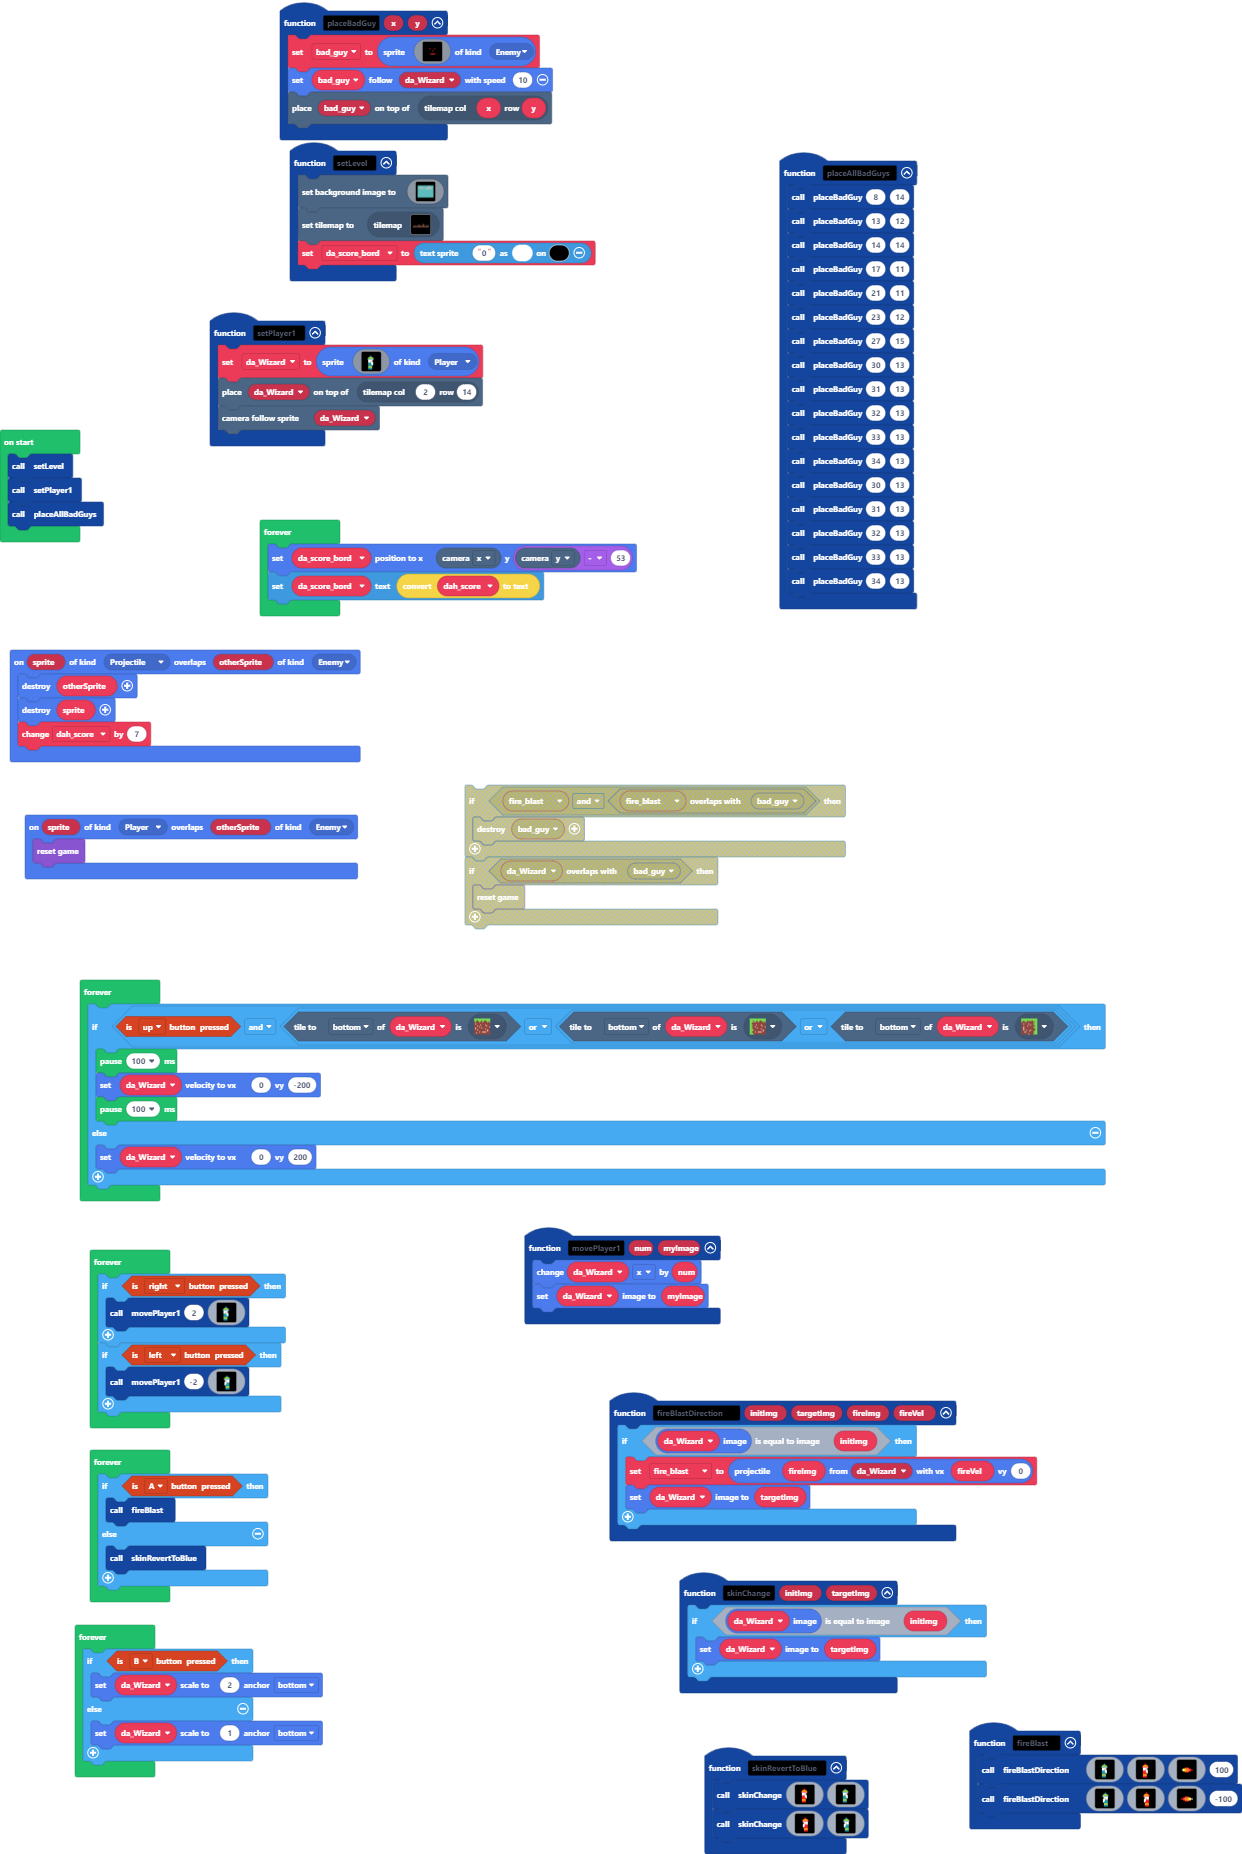
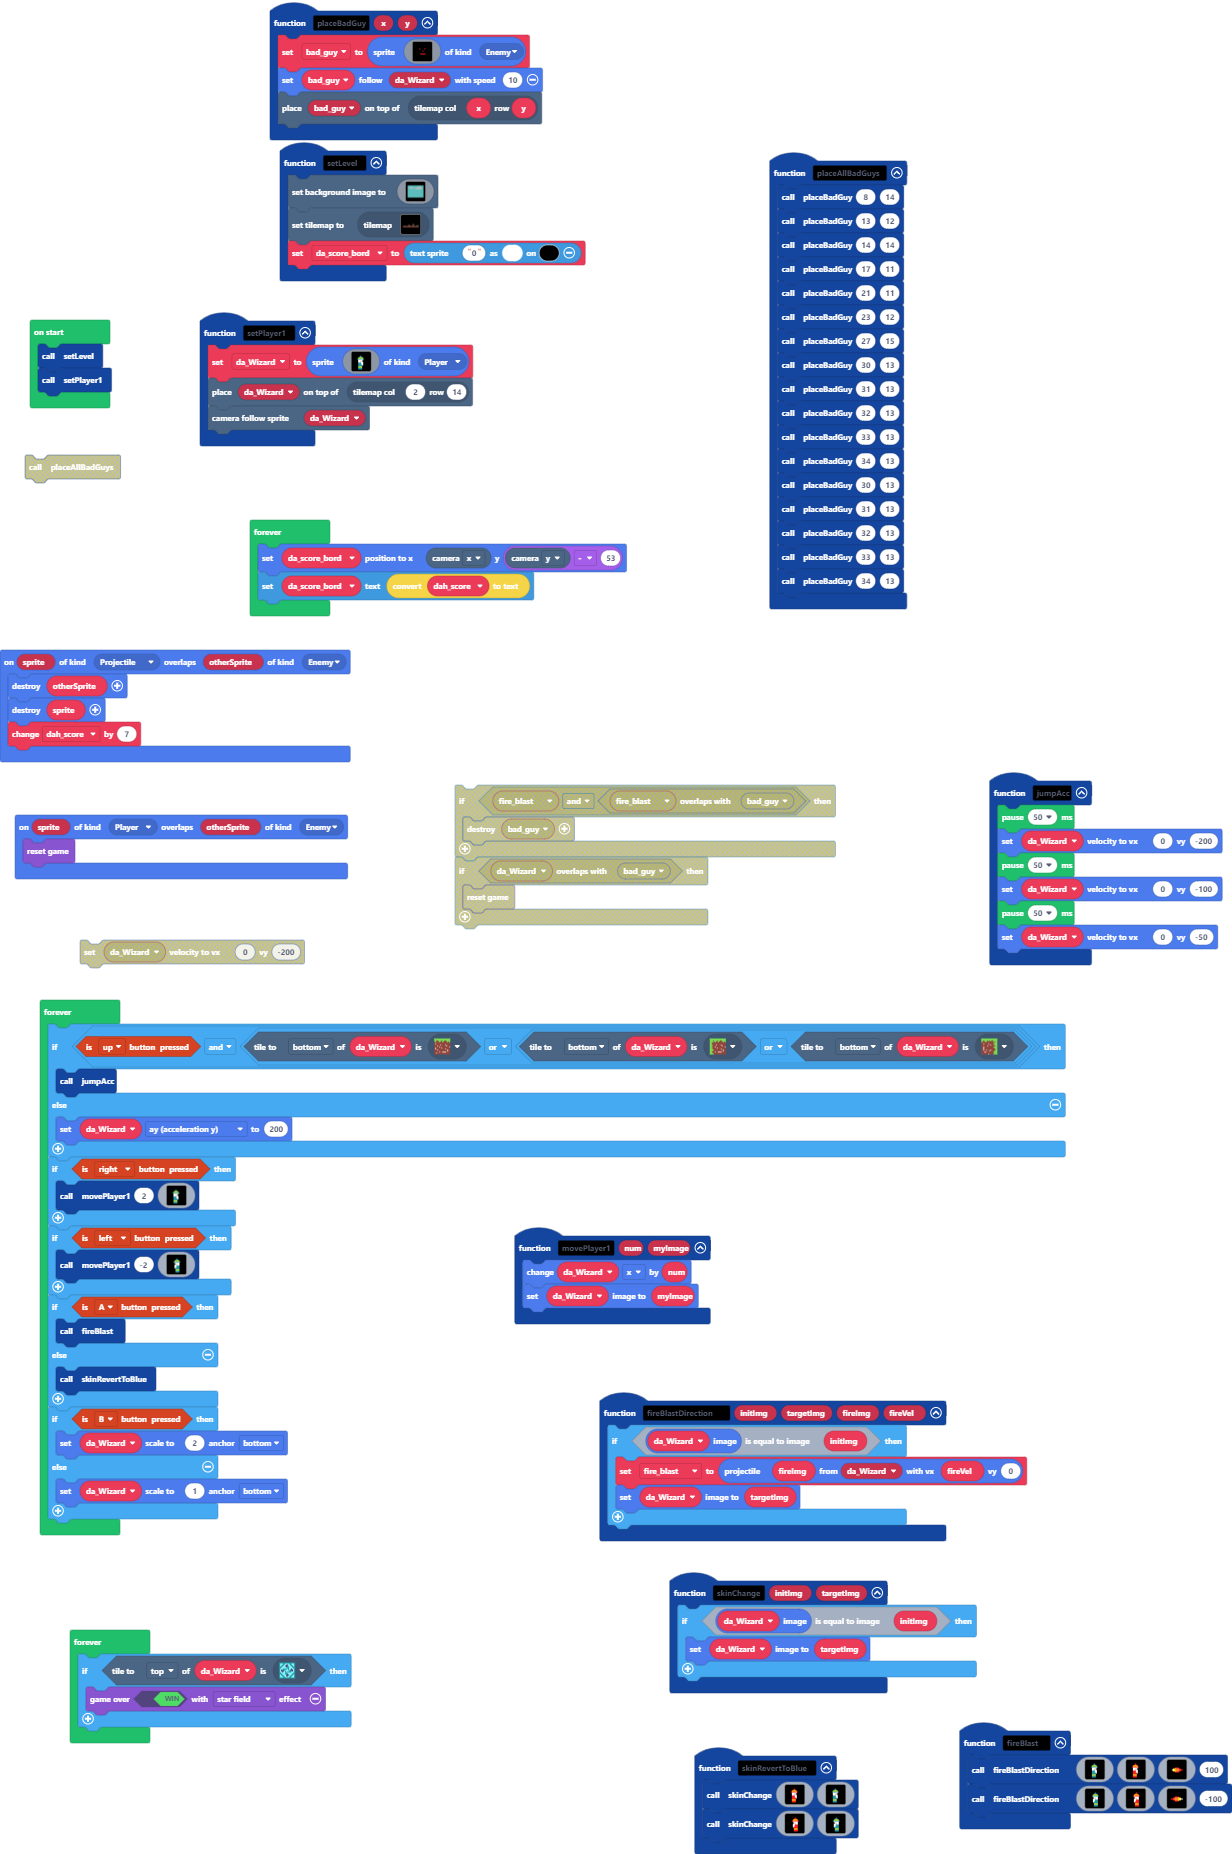
Update main.blocks, main.ts

diff --git a/main.ts b/main.ts
@@ -8,6 +8,14 @@ function skinChange (initImg: Image, targetImg: Image) {
         da_Wizard.setImage(targetImg)
     }
 }
+function jumpAcc () {
+    pause(50)
+    da_Wizard.setVelocity(0, -200)
+    pause(50)
+    da_Wizard.setVelocity(0, -100)
+    pause(50)
+    da_Wizard.setVelocity(0, -50)
+}
 function placeBadGuy (x: number, y: number) {
     bad_guy = sprites.create(assets.image`bad guy`, SpriteKind.Enemy)
     bad_guy.follow(da_Wizard, 10)
@@ -70,39 +78,35 @@ let da_Wizard: Sprite = null
 let da_score_bord: TextSprite = null
 setLevel()
 setPlayer1()
-placeAllBadGuys()
 forever(function () {
     da_score_bord.setPosition(scene.cameraProperty(CameraProperty.X), scene.cameraProperty(CameraProperty.Y) - 53)
     da_score_bord.setText(convertToText(dah_score))
 })
 forever(function () {
     if (controller.up.isPressed() && (da_Wizard.tileKindAt(TileDirection.Bottom, assets.tile`Grass up`) || (da_Wizard.tileKindAt(TileDirection.Bottom, assets.tile`Grass left up`) || da_Wizard.tileKindAt(TileDirection.Bottom, assets.tile`Grass right up`)))) {
-        pause(100)
-        da_Wizard.setVelocity(0, -200)
-        pause(100)
+        jumpAcc()
     } else {
-        da_Wizard.setVelocity(0, 200)
+        da_Wizard.ay = 200
     }
-})
-forever(function () {
     if (controller.right.isPressed()) {
         movePlayer1(2, assets.image`Da Wizard right`)
     }
     if (controller.left.isPressed()) {
         movePlayer1(-2, assets.image`Da Wizard left`)
     }
-})
-forever(function () {
     if (controller.A.isPressed()) {
         fireBlast()
     } else {
         skinRevertToBlue()
     }
-})
-forever(function () {
     if (controller.B.isPressed()) {
         da_Wizard.setScale(2, ScaleAnchor.Bottom)
     } else {
         da_Wizard.setScale(1, ScaleAnchor.Bottom)
+    }
+})
+forever(function () {
+    if (da_Wizard.tileKindAt(TileDirection.Top, sprites.dungeon.collectibleInsignia)) {
+        game.over(true, effects.starField)
     }
 })
